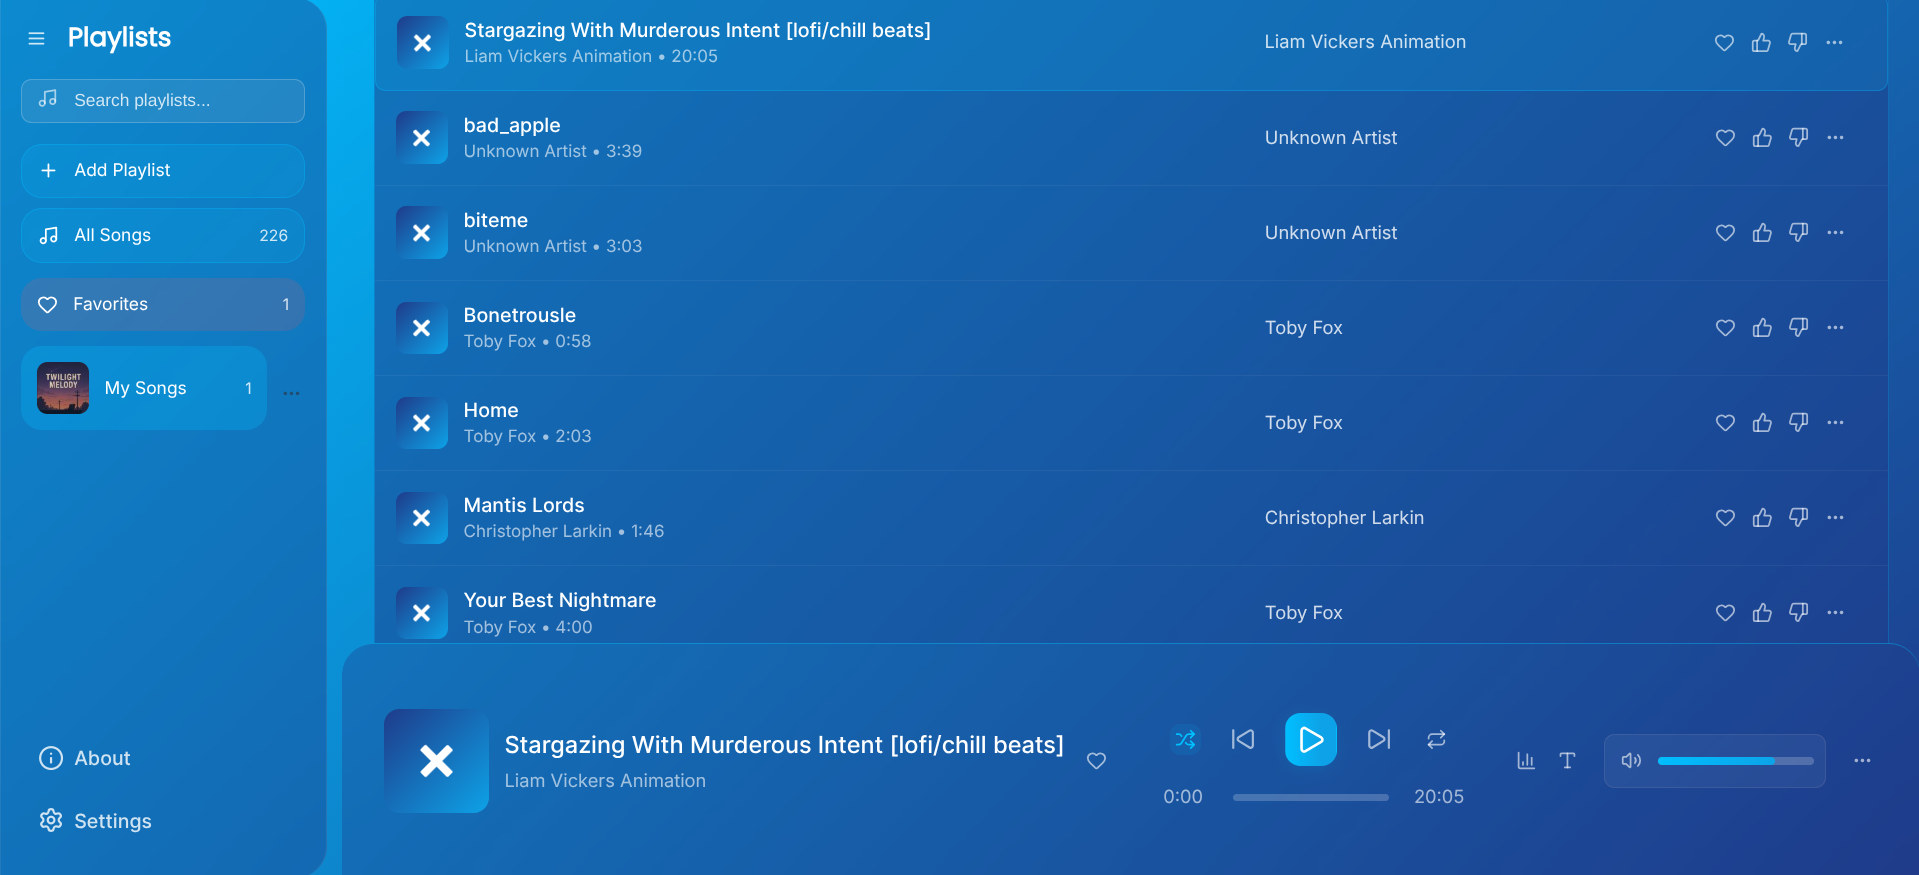
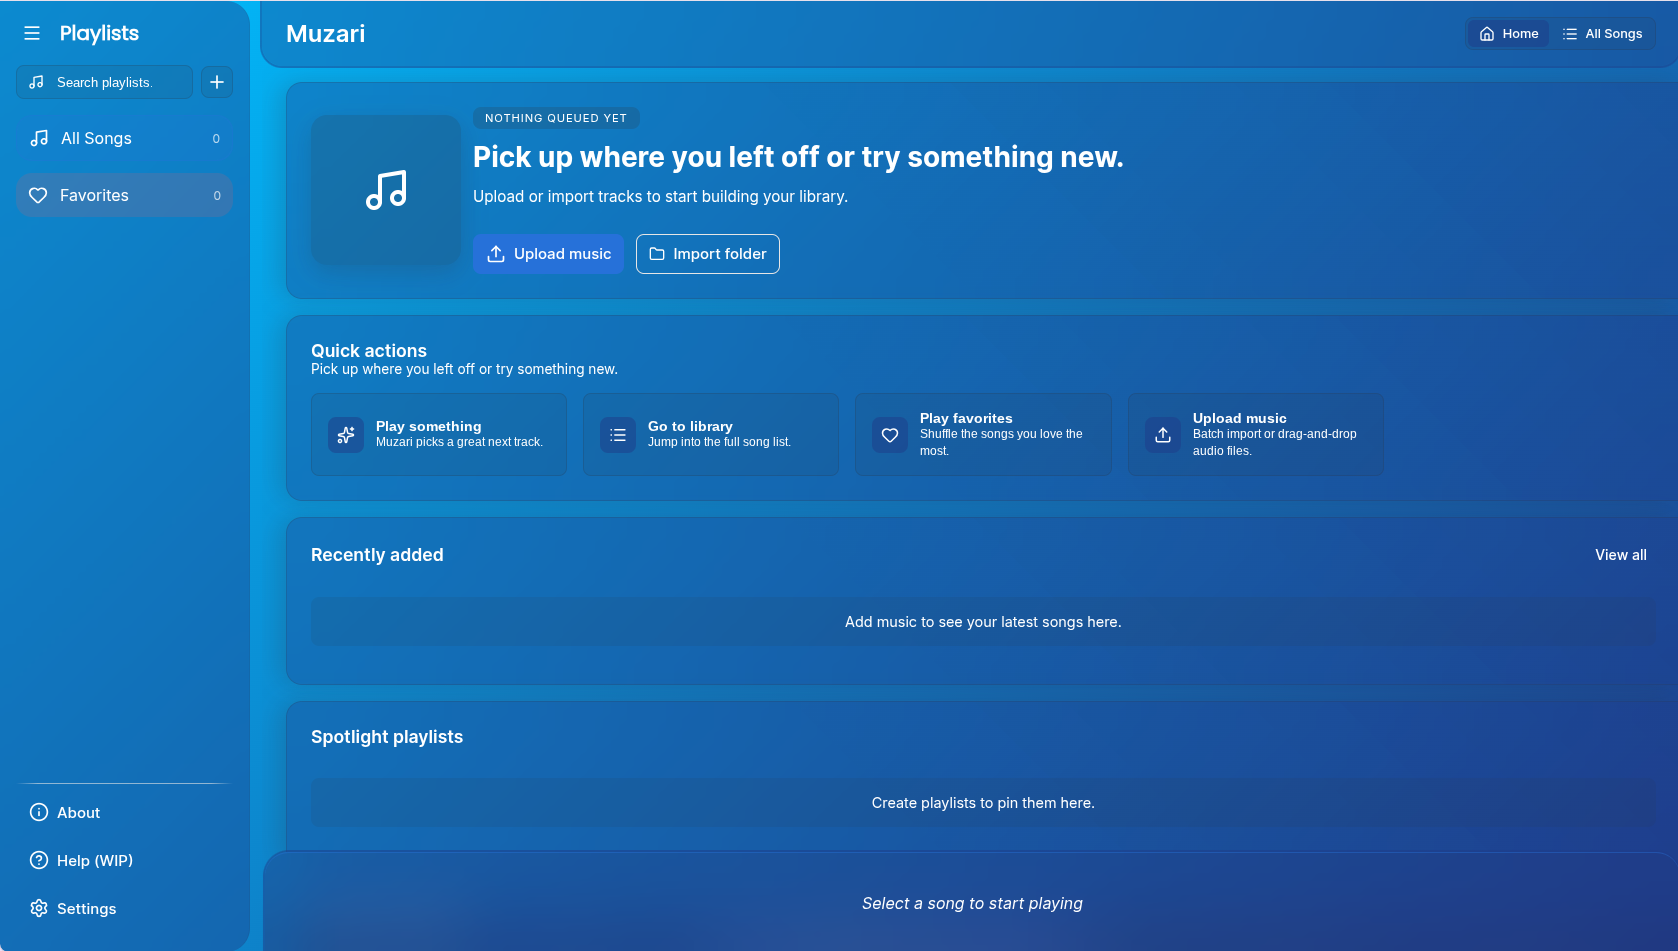
Muzari reimage

diff --git a/src/lib/components/organisms/About.svelte b/src/lib/components/organisms/About.svelte
@@ -23,7 +23,7 @@
 	<div class="image">
 		<figure>
 			<Image src="/images/frontpage.png" alt="Sample for the static template" />
-			<figcaption>HTMLPlayer v2</figcaption>
+			<figcaption>Muzari</figcaption>
 		</figure>
 	</div>
 </section>

diff --git a/src/routes/projects/curvomorphism/+page.md b/src/routes/projects/curvomorphism/+page.md
@@ -24,4 +24,4 @@ It's a concept repo, not a code library. The README lays out the philosophy, the
 
 ## Current Status
 
-I'm currently using Curvomorphism in beta for HTMLPlayer v2. The author hedge in the README says it "guides the eye naturally to the center (i'd assume)" and I think that's fair. It's a design hypothesis more than a proven technique. But every new UI trend started as someone's weird idea, and I'd rather put mine out there than keep it in a notebook. The repo is open, the idea is documented, and if anyone wants to run with it, go for it. I just wanted to see if the concept worked. Turns out it kind of does.
+I'm currently using Curvomorphism for Muzari. The author hedge in the README says it "guides the eye naturally to the center (i'd assume)" and I think that's fair. It's a design hypothesis more than a proven technique. But every new UI trend started as someone's weird idea, and I'd rather put mine out there than keep it in a notebook. The repo is open, the idea is documented, and if anyone wants to run with it, go for it. I just wanted to see if the concept worked. Turns out it kind of does.
